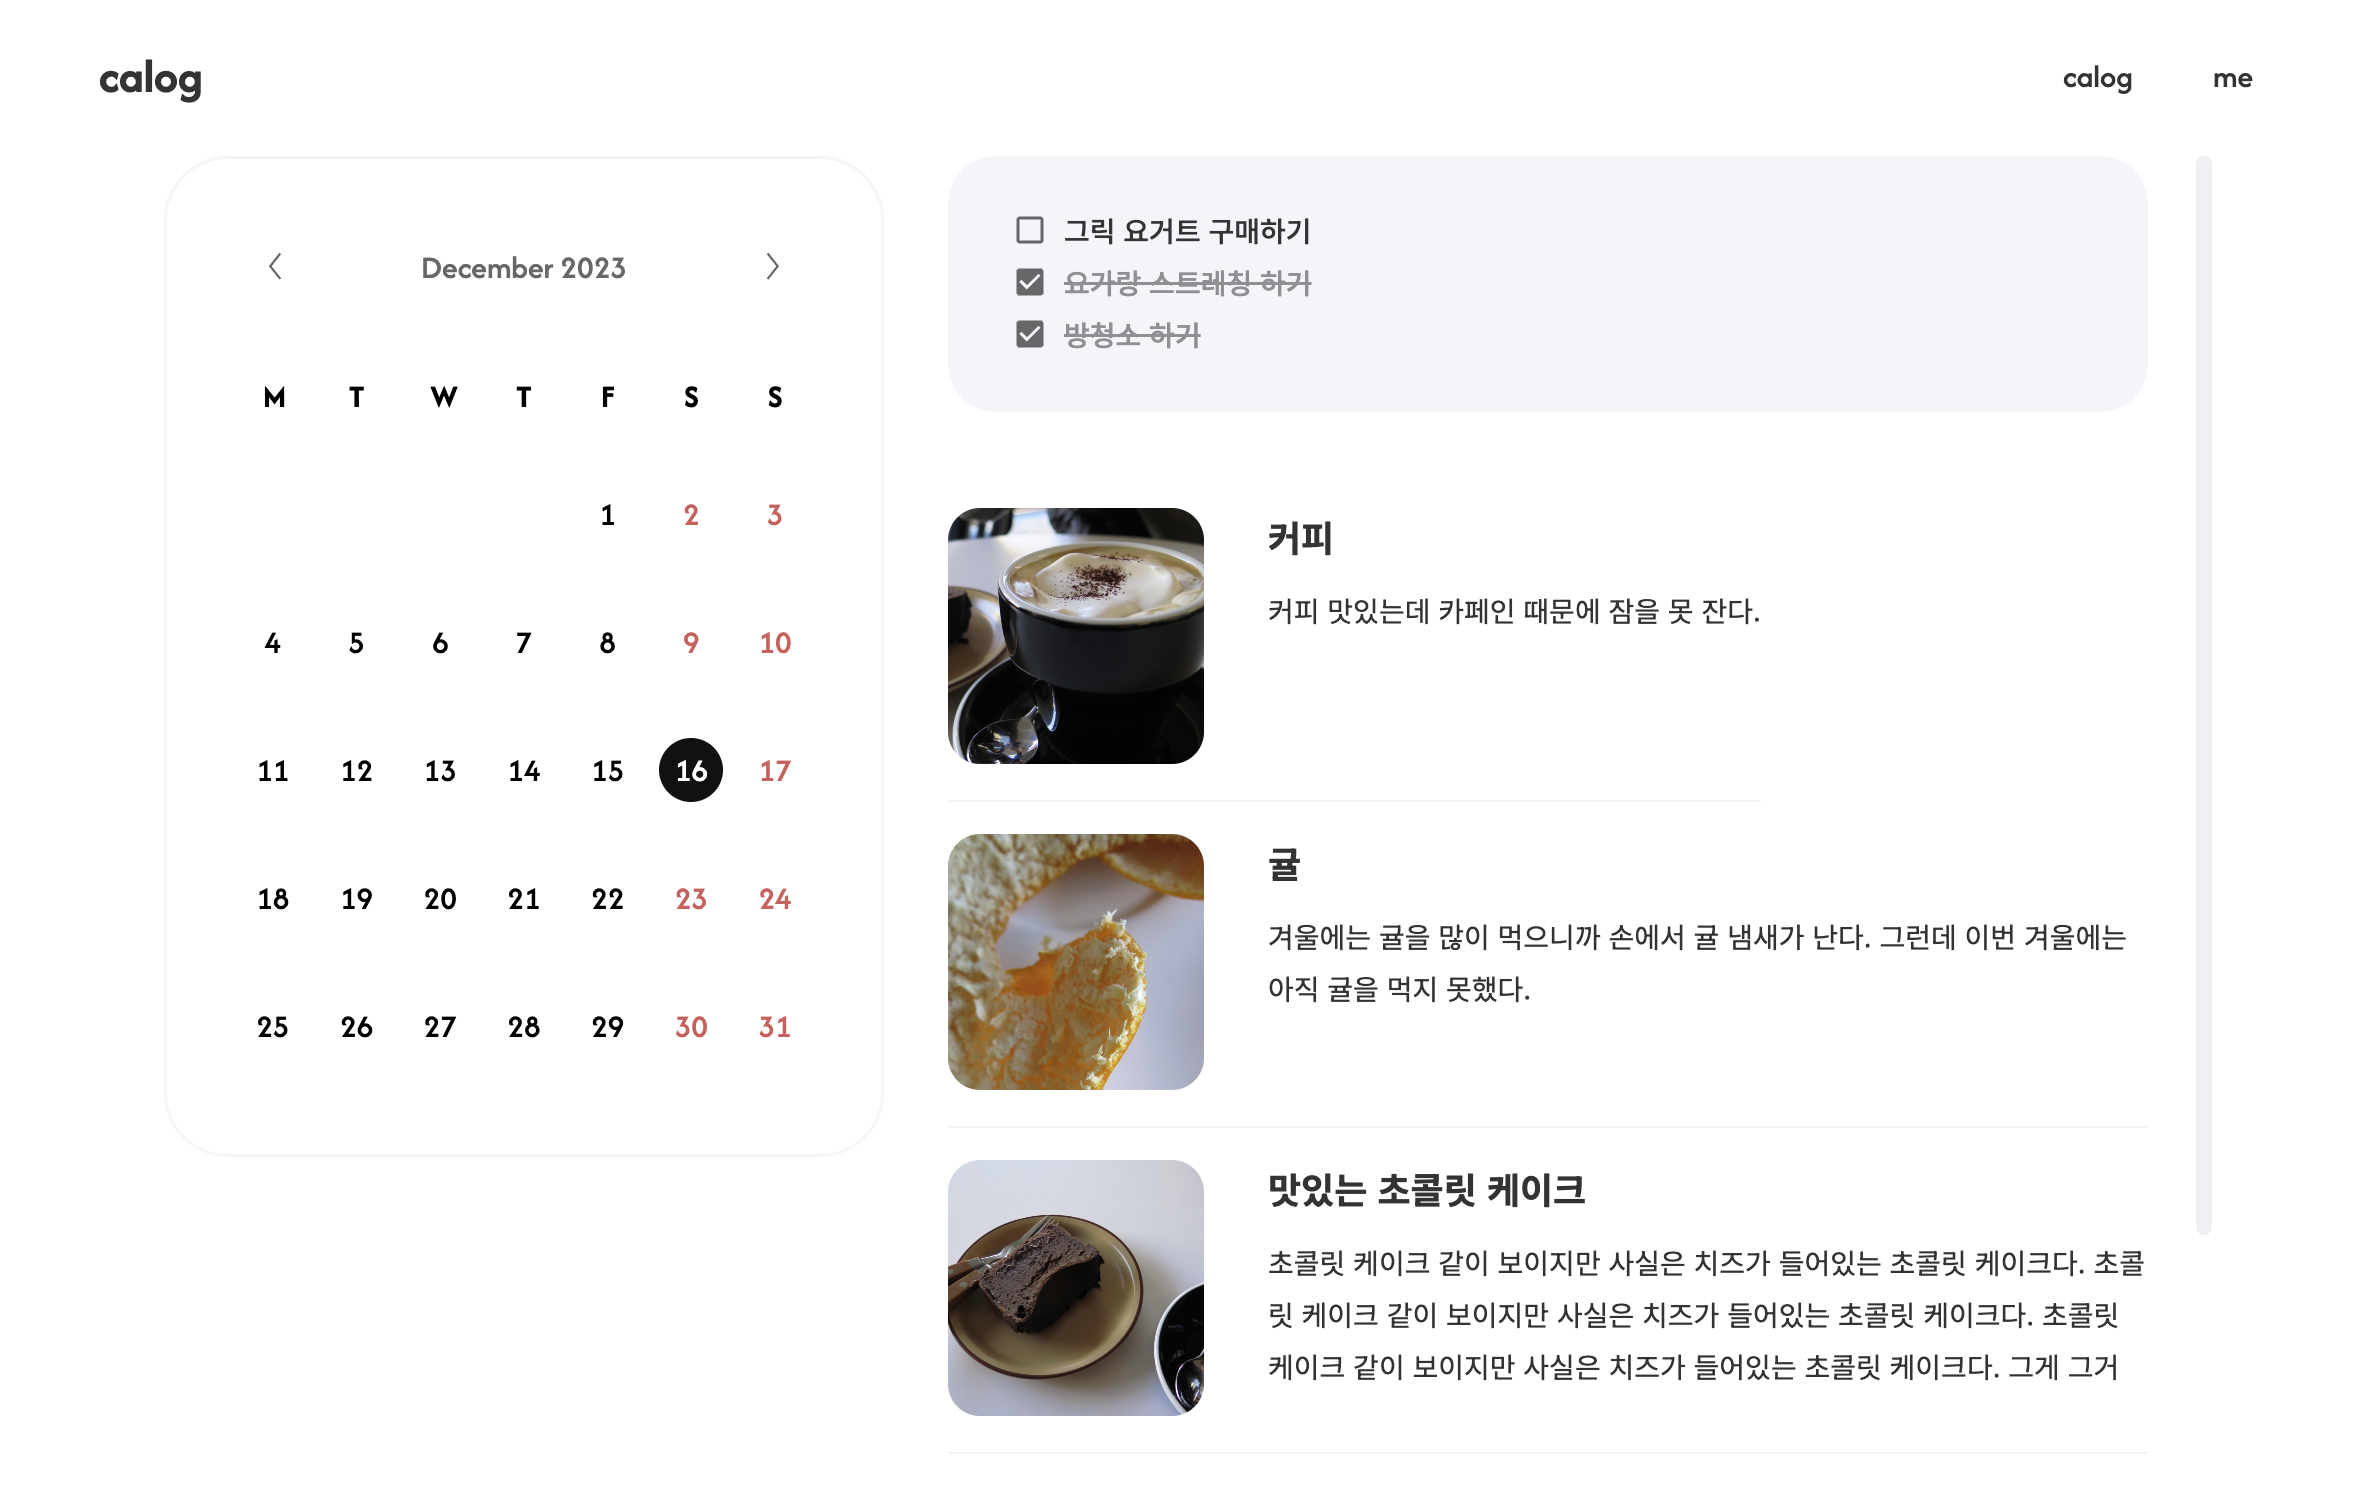
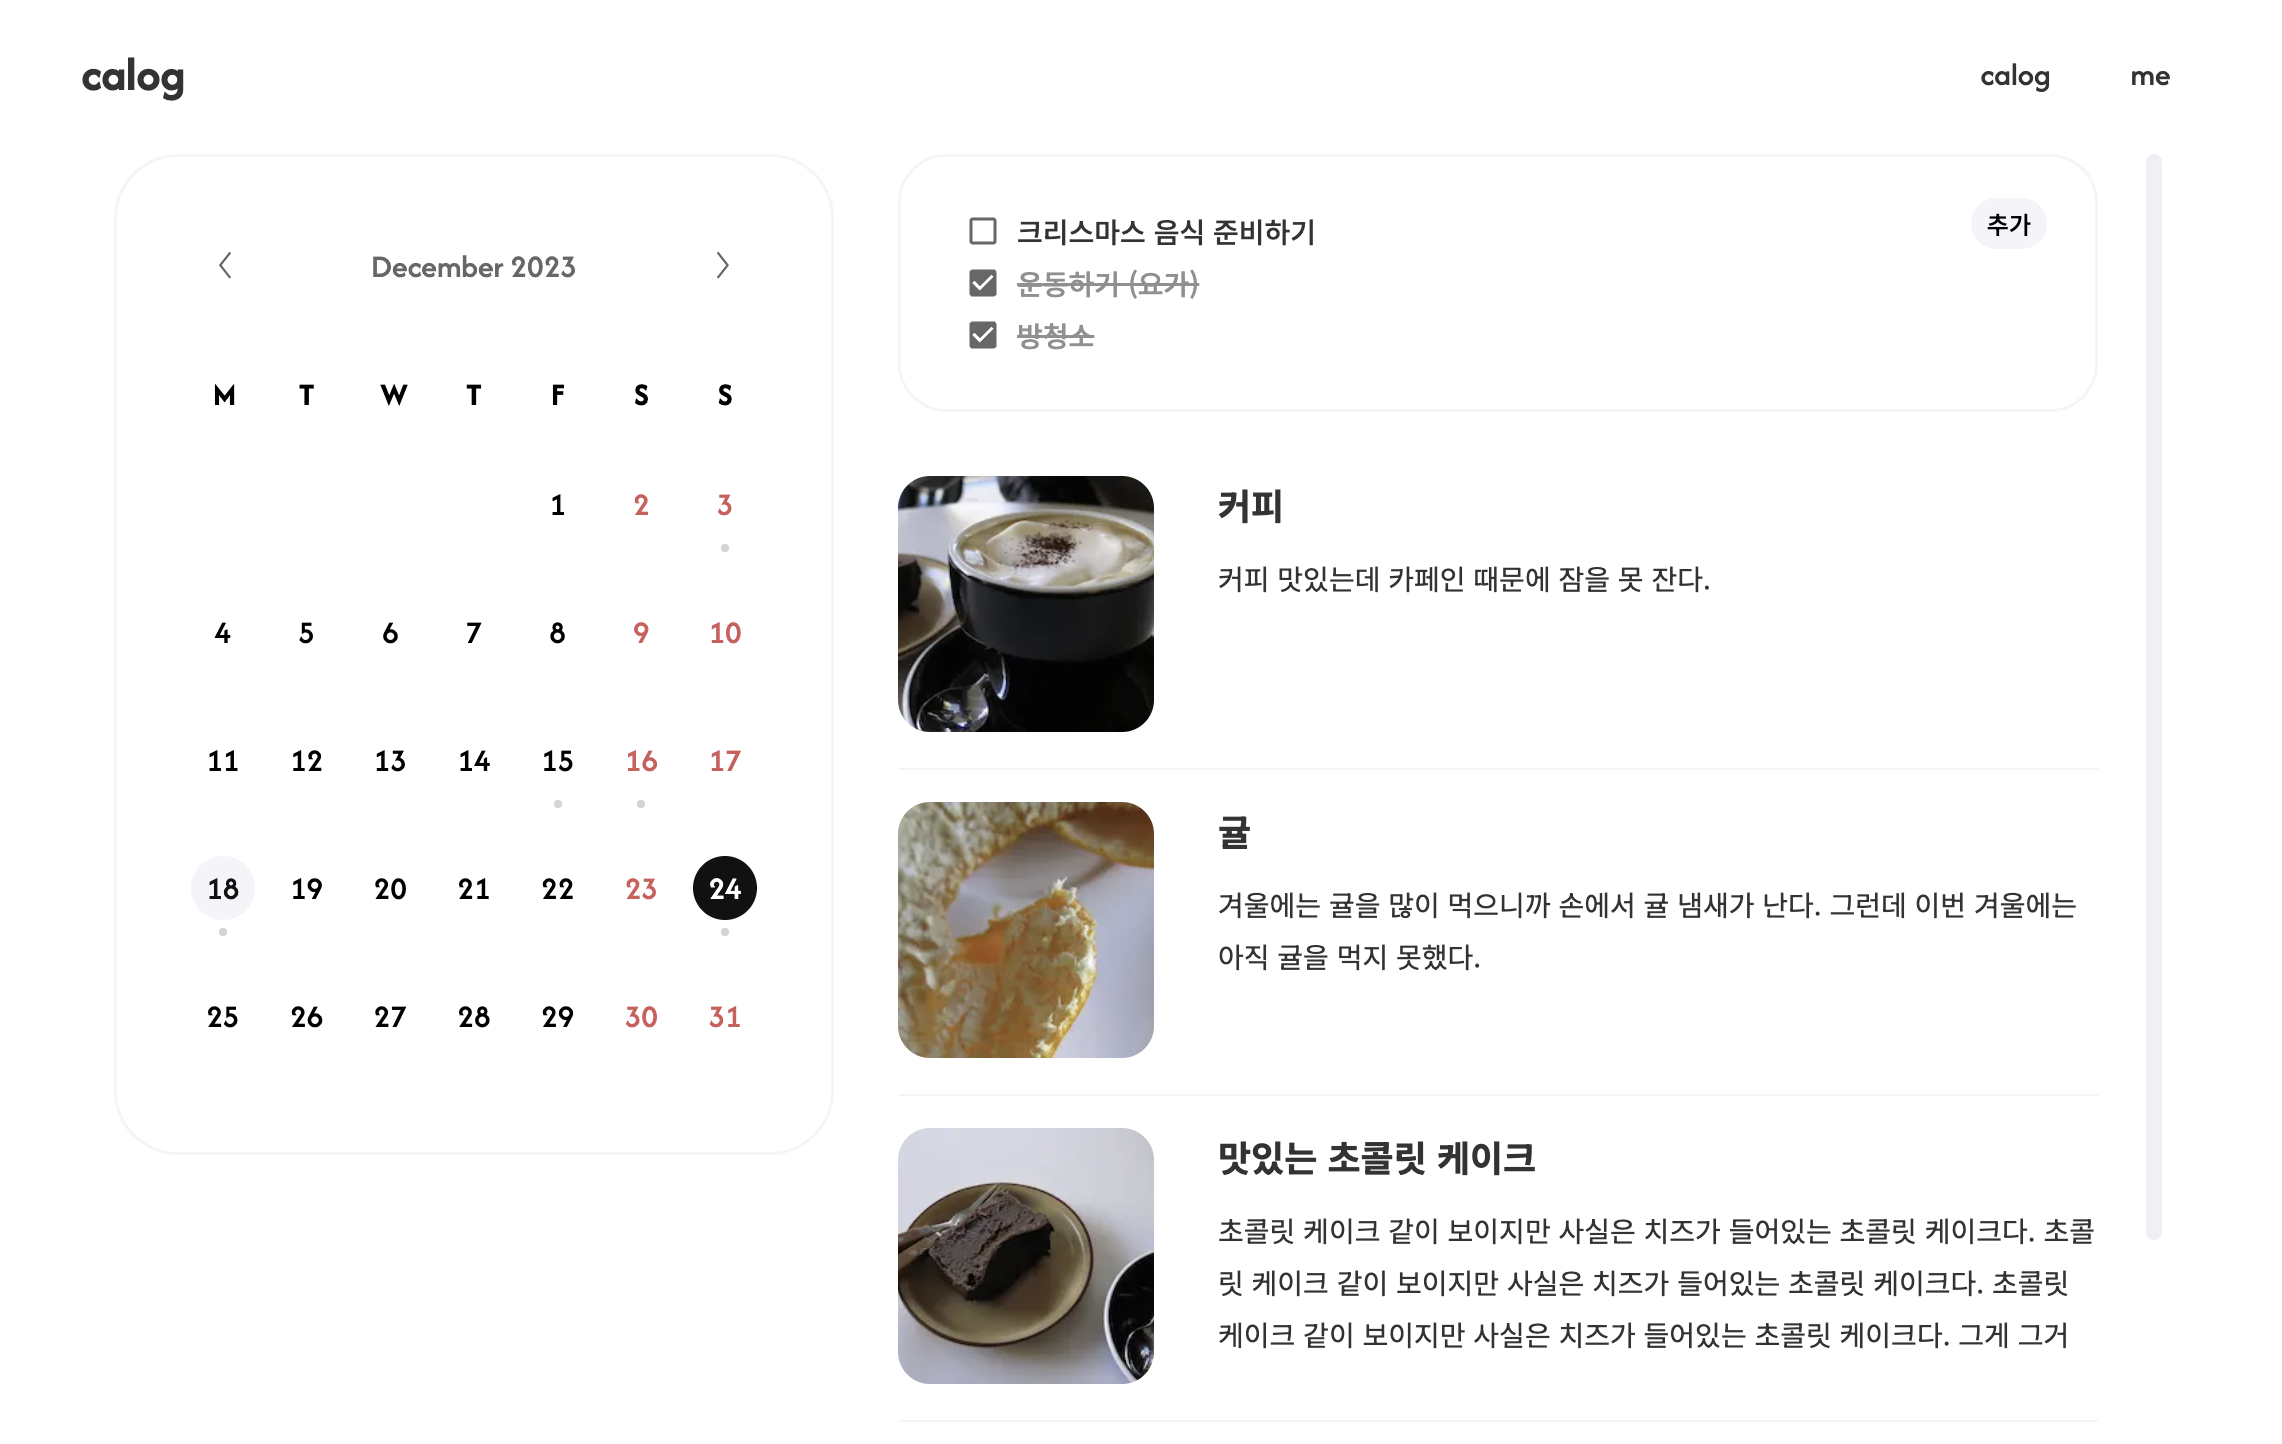
docs: update README.md

diff --git a/README.md b/README.md
@@ -19,15 +19,31 @@
 |               |         사용 기술          |
 | :-----------: | :------------------------: |
 |     코어      | React, Next.js, TypeScript |
-|   상태 관리   |     React Query (예정)     |
-|   스타일링    |         CSS Module         |
+|   상태 관리   | Recoil, React Query (예정) |
+|   스타일링    |    CSS Module, Emotion     |
+|    포맷팅     |      ESLint, Prettier      |
 | 패키지 매니저 |         Yarn Berry         |
+
+## Components/Hooks
+
+**Components (UI 관련)**
+
+- `Callout` : 컨텐츠 강조 카드
+- `HoverBlurCard` : hover시 이미지 블러 효과와 텍스트 나타나는 카드
+- `MediaObjectCard` : 이미지와 텍스트를 함께 배치하는 카드
+- `ToggleVisibleButton` : 컨텐츠의 visibility를 컨트롤하는 버튼
+
+**Custom Hooks**
+
+- `useEscKey` : esc 키 이벤트 발생 시 콜백 함수 실행시키는 커스텀 훅
+- `useToggleVisibility` : content visible 상태 관련 변수 및 함수를 관리하는 커스텀 훅
 
 ## TODO
 
-> 현재 컴포넌트만 구현된 상태로 더미데이터 사용 중
+> 현재 더미데이터 사용하여 상태 관리 중
 
+- [x] Recoil을 사용한 상태 관리
 - [ ] API 통신
-- [ ] 캘린더 스타일링
+- [x] 캘린더 스타일링
 - [ ] linear gradient 스타일링
 - [ ] 인증
